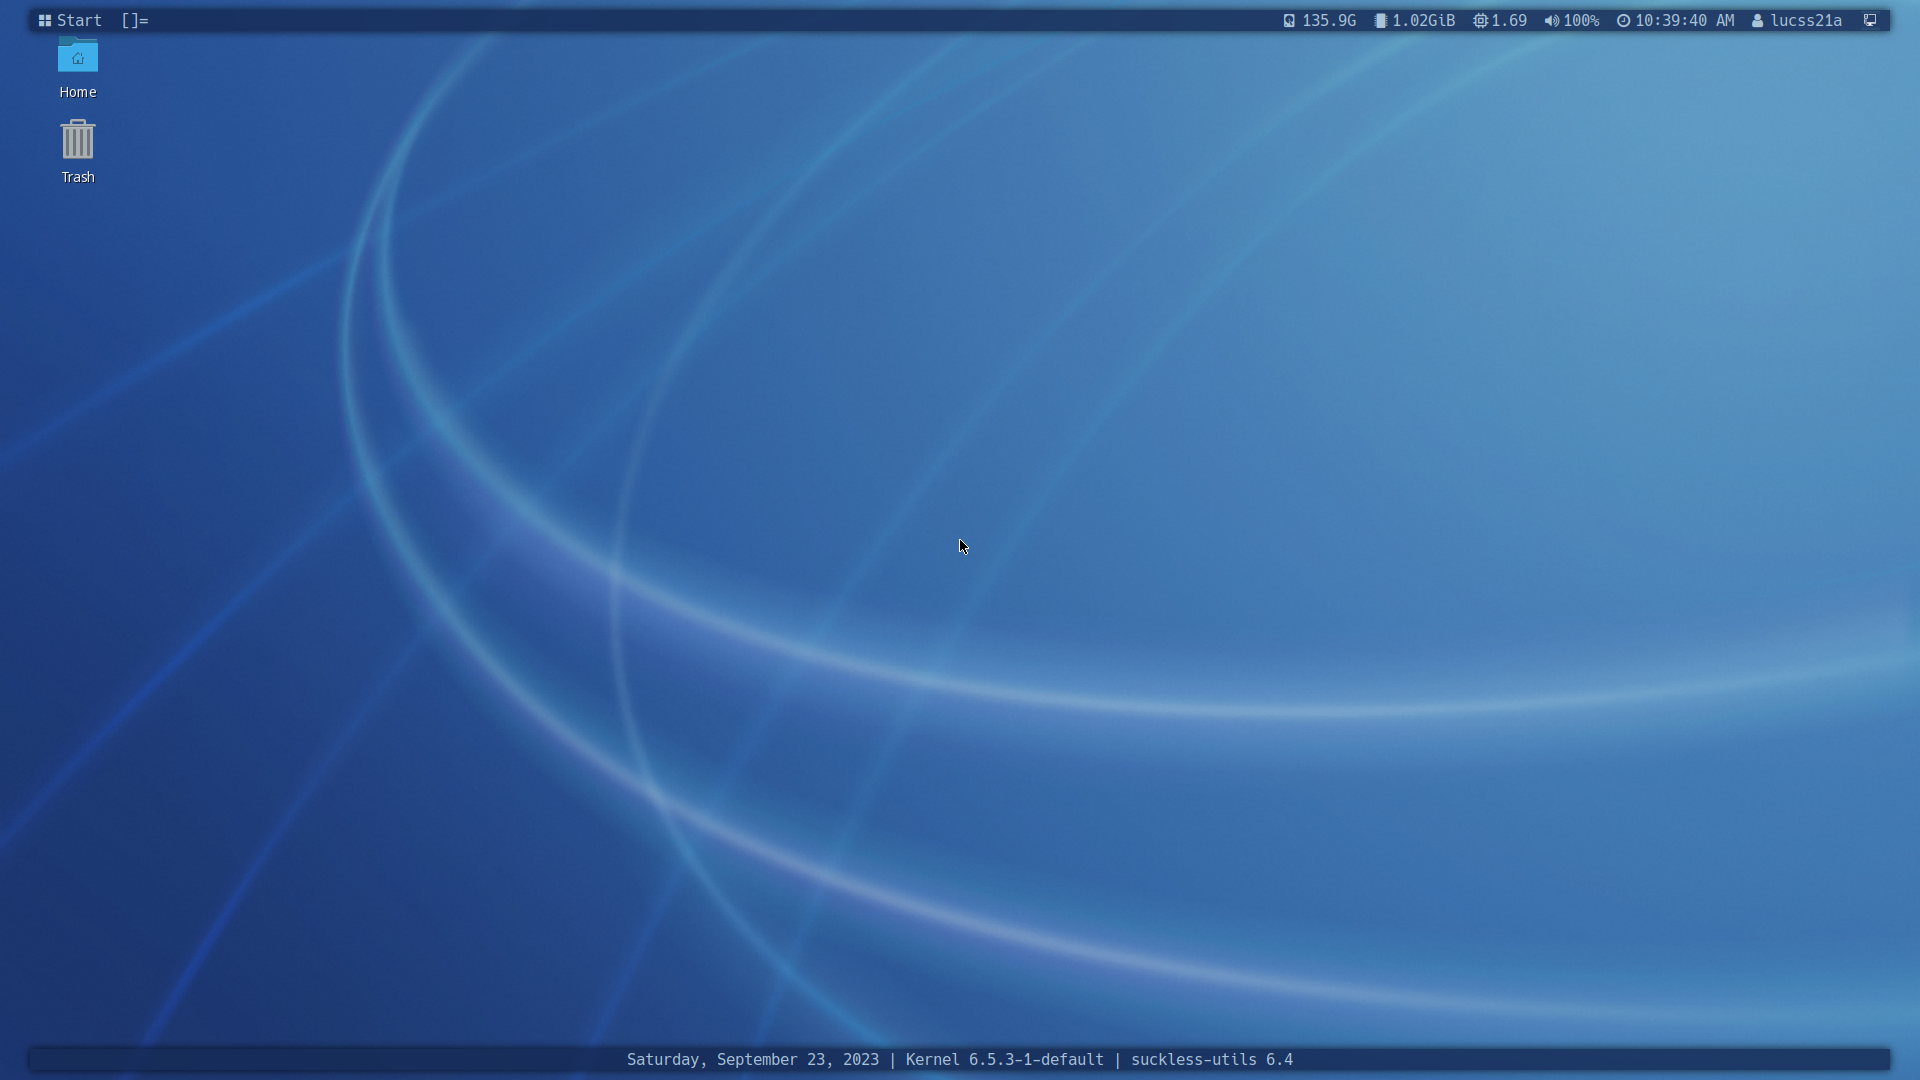
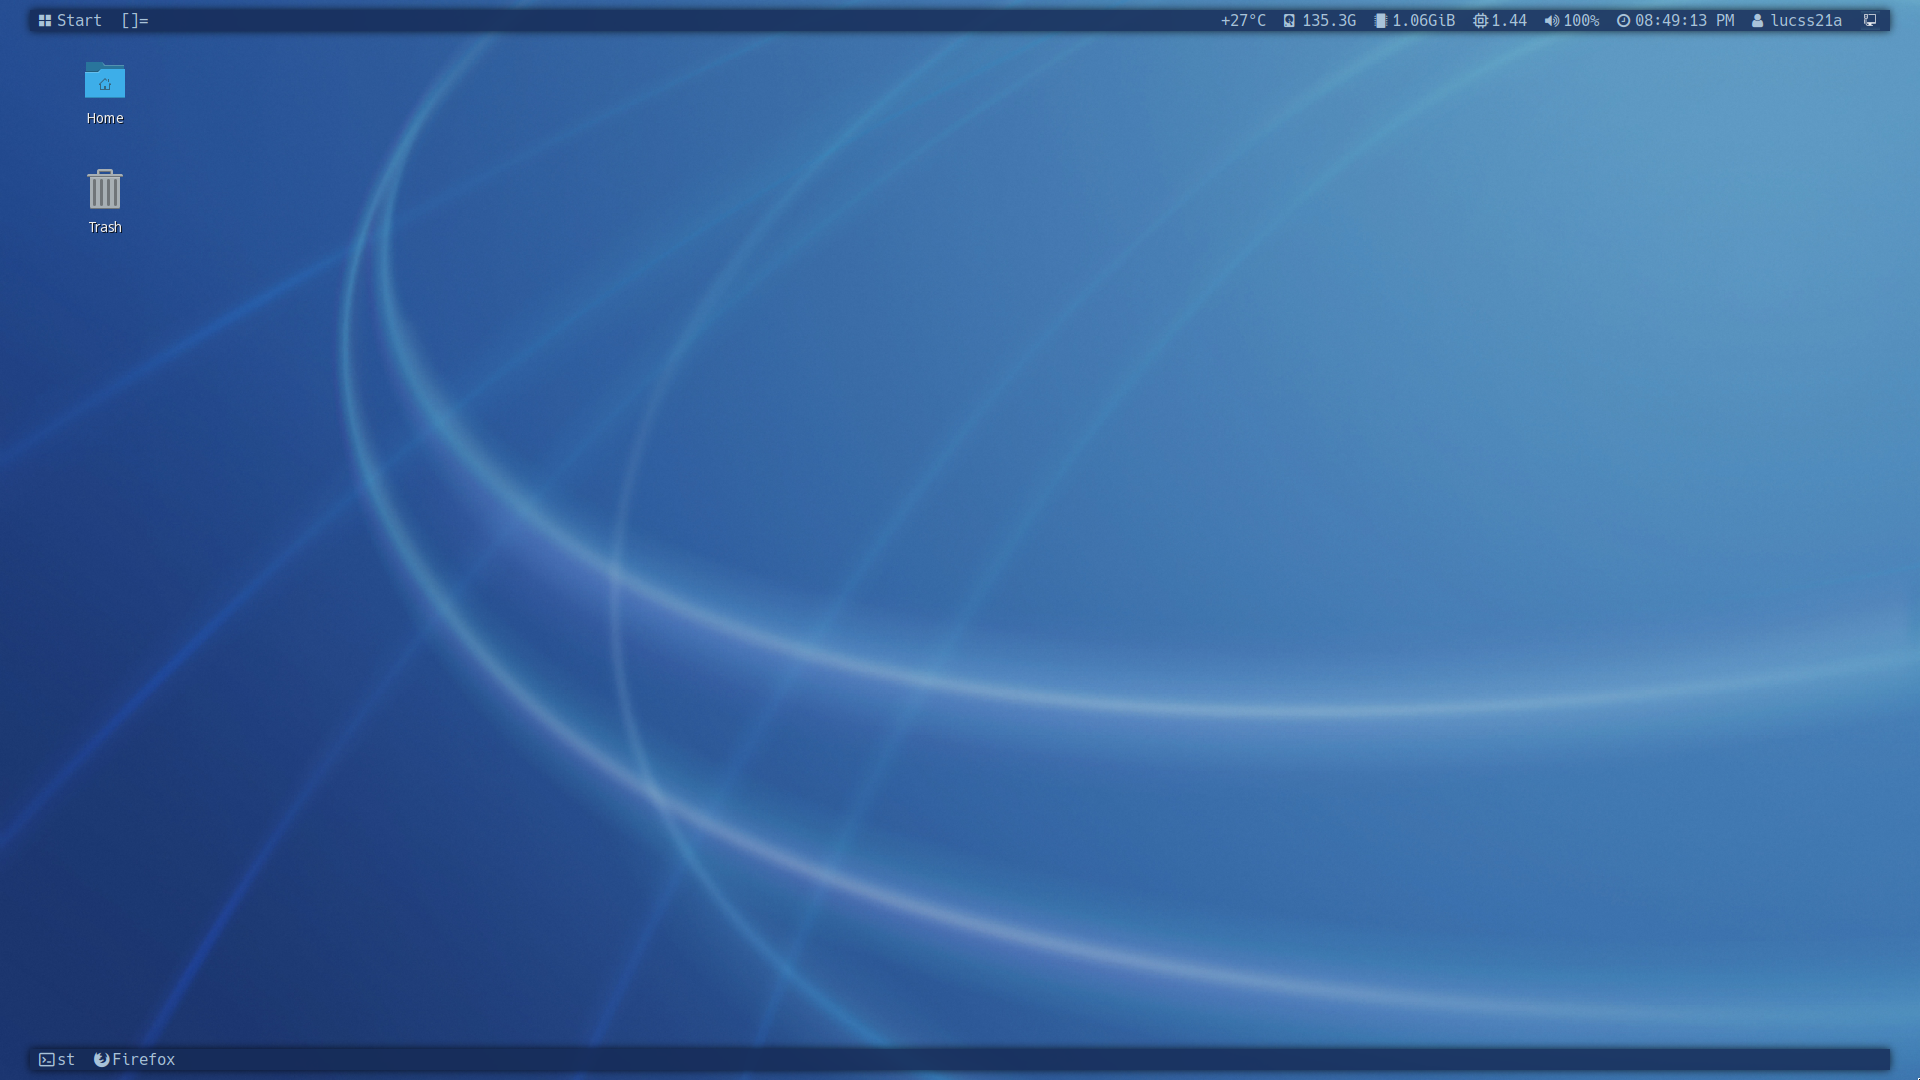
Improved bottom statusbar
- Removed the useless placeholder
- Added more status buttons
- (During debugging) replaced Polybar with tint2, couldn't make it work

diff --git a/dwm-flexipatch/config.def.h b/dwm-flexipatch/config.def.h
@@ -38,7 +38,7 @@ static const char localshare[]           = ".local/share";
 #endif // AUTOSTART_PATCH
 #if BAR_ANYBAR_PATCH
 static const int usealtbar               = 1;        /* 1 means use non-dwm status bar */
-static const char *altbarclass           = "Polybar"; /* Alternate bar class name */
+static const char *altbarclass           = "Tint2"; /* Alternate bar class name */
 static const char *altbarcmd             = "$HOME/bar.sh"; /* Alternate bar launch command */
 #endif // BAR_ANYBAR_PATCH
 #if BAR_HOLDBAR_PATCH
@@ -95,6 +95,8 @@ static const int vertpadbar              = 0;   /* vertical padding for statusba
 #endif // BAR_STATUSPADDING_PATCH
 #if BAR_STATUSBUTTON_PATCH
 static const char buttonbar[]            = " Start";
+static const char buttonbar2[]           = " st";
+static const char buttonbar3[]           = " Firefox";
 #endif // BAR_STATUSBUTTON_PATCH
 #if BAR_SYSTRAY_PATCH
 static const unsigned int systrayspacing = 2;   /* systray spacing */
@@ -549,6 +551,8 @@ static const BarRule barrules[] = {
 	/* monitor   bar    alignment         widthfunc                 drawfunc                clickfunc                hoverfunc                name */
 	#if BAR_STATUSBUTTON_PATCH
 	{ -1,        0,     BAR_ALIGN_LEFT,   width_stbutton,           draw_stbutton,          click_stbutton,          NULL,                    "statusbutton" },
+	{ -1,        1,     BAR_ALIGN_LEFT,   width_stbutton2,          draw_stbutton2,          click_stbutton2,          NULL,                    "statusbutton2" },
+	{ -1,        1,     BAR_ALIGN_LEFT,   width_stbutton3,          draw_stbutton3,          click_stbutton3,          NULL,                    "statusbutton3" },
 	#endif // BAR_STATUSBUTTON_PATCH
 	#if BAR_POWERLINE_TAGS_PATCH
 	{  0,        0,     BAR_ALIGN_LEFT,   width_pwrl_tags,          draw_pwrl_tags,         click_pwrl_tags,         NULL,                    "powerline_tags" },
@@ -579,19 +583,19 @@ static const BarRule barrules[] = {
 	#elif BAR_POWERLINE_STATUS_PATCH
 	{ statusmon, 0,     BAR_ALIGN_RIGHT,  width_pwrl_status,        draw_pwrl_status,       click_pwrl_status,       NULL,                    "powerline_status" },
 	#elif BAR_STATUS_PATCH && BAR_STATUSCMD_PATCH
-	{ statusmon, 0,     BAR_ALIGN_RIGHT,  width_status,             draw_status,            click_statuscmd,         NULL,                    "status" },
+	{ statusmon, 1,     BAR_ALIGN_RIGHT,  width_status,             draw_status,            click_statuscmd,         NULL,                    "status" },
 	#elif BAR_STATUS_PATCH
-	{ statusmon, 0,     BAR_ALIGN_RIGHT,  width_status,             draw_status,            click_status,            NULL,                    "status" },
+	{ statusmon, 1,     BAR_ALIGN_RIGHT,  width_status,             draw_status,            click_status,            NULL,                    "status" },
 	#endif // BAR_STATUS2D_PATCH | BAR_STATUSCMD_PATCH
 	#if XKB_PATCH
 	{  0,        0,     BAR_ALIGN_RIGHT,  width_xkb,                draw_xkb,               click_xkb,               NULL,                    "xkb" },
 	#endif // XKB_PATCH
 	#if BAR_FLEXWINTITLE_PATCH
-	{ -1,        0,     BAR_ALIGN_NONE,   width_flexwintitle,       draw_flexwintitle,      click_flexwintitle,      NULL,                    "flexwintitle" },
+	{ -1,        1,     BAR_ALIGN_NONE,   width_flexwintitle,       draw_flexwintitle,      click_flexwintitle,      NULL,                    "flexwintitle" },
 	#elif BAR_TABGROUPS_PATCH
 	{ -1,        0,     BAR_ALIGN_NONE,   width_bartabgroups,       draw_bartabgroups,      click_bartabgroups,      NULL,                    "bartabgroups" },
 	#elif BAR_AWESOMEBAR_PATCH
-	{ -1,        0,     BAR_ALIGN_NONE,   width_awesomebar,         draw_awesomebar,        click_awesomebar,        NULL,                    "awesomebar" },
+	{ -1,        1,     BAR_ALIGN_NONE,   width_awesomebar,         draw_awesomebar,        click_awesomebar,        NULL,                    "awesomebar" },
 	#elif BAR_FANCYBAR_PATCH
 	{ -1,        0,     BAR_ALIGN_NONE,   width_fancybar,           draw_fancybar,          click_fancybar,          NULL,                    "fancybar" },
 	#elif BAR_WINTITLE_PATCH
@@ -1362,6 +1366,8 @@ static const Button buttons[] = {
 	/* click                event mask           button          function        argument */
 	#if BAR_STATUSBUTTON_PATCH
 	{ ClkButton,            0,                   Button1,        spawn,          SHCMD("spmenu_run -d -a '-g 4 -l 10'") /* use spmenu instead of dmenu */ },
+	{ ClkButton2,            0,                  Button1,        spawn,          {.v = termcmd } },
+	{ ClkButton3,            0,                  Button1,        spawn,          SHCMD("firefox") },
 	#endif // BAR_STATUSBUTTON_PATCH
 	{ ClkLtSymbol,          0,                   Button1,        setlayout,      {0} },
 	#if BAR_LAYOUTMENU_PATCH

diff --git a/dwm-flexipatch/patch/xrdb.c b/dwm-flexipatch/patch/xrdb.c
@@ -59,39 +59,39 @@ loadxrdb()
 				XRDB_LOAD_COLOR("dwm.color13", scratchnormfloatcolor);
 				#endif // RENAMED_SCRATCHPADS_PATCH
 				#if BAR_FLEXWINTITLE_PATCH
-				XRDB_LOAD_COLOR("dwm.normTTBbgcolor", normTTBbgcolor);
-				XRDB_LOAD_COLOR("dwm.normLTRbgcolor", normLTRbgcolor);
-				XRDB_LOAD_COLOR("dwm.normMONObgcolor", normMONObgcolor);
-				XRDB_LOAD_COLOR("dwm.normGRIDbgcolor", normGRIDbgcolor);
-				XRDB_LOAD_COLOR("dwm.normGRD1bgcolor", normGRD1bgcolor);
-				XRDB_LOAD_COLOR("dwm.normGRD2bgcolor", normGRD2bgcolor);
-				XRDB_LOAD_COLOR("dwm.normGRDMbgcolor", normGRDMbgcolor);
-				XRDB_LOAD_COLOR("dwm.normHGRDbgcolor", normHGRDbgcolor);
-				XRDB_LOAD_COLOR("dwm.normDWDLbgcolor", normDWDLbgcolor);
-				XRDB_LOAD_COLOR("dwm.normSPRLbgcolor", normSPRLbgcolor);
-				XRDB_LOAD_COLOR("dwm.normfloatbgcolor", normfloatbgcolor);
-				XRDB_LOAD_COLOR("dwm.actTTBbgcolor", actTTBbgcolor);
-				XRDB_LOAD_COLOR("dwm.actLTRbgcolor", actLTRbgcolor);
-				XRDB_LOAD_COLOR("dwm.actMONObgcolor", actMONObgcolor);
-				XRDB_LOAD_COLOR("dwm.actGRIDbgcolor", actGRIDbgcolor);
-				XRDB_LOAD_COLOR("dwm.actGRD1bgcolor", actGRD1bgcolor);
-				XRDB_LOAD_COLOR("dwm.actGRD2bgcolor", actGRD2bgcolor);
-				XRDB_LOAD_COLOR("dwm.actGRDMbgcolor", actGRDMbgcolor);
-				XRDB_LOAD_COLOR("dwm.actHGRDbgcolor", actHGRDbgcolor);
-				XRDB_LOAD_COLOR("dwm.actDWDLbgcolor", actDWDLbgcolor);
-				XRDB_LOAD_COLOR("dwm.actSPRLbgcolor", actSPRLbgcolor);
-				XRDB_LOAD_COLOR("dwm.actfloatbgcolor", actfloatbgcolor);
-				XRDB_LOAD_COLOR("dwm.selTTBbgcolor", selTTBbgcolor);
-				XRDB_LOAD_COLOR("dwm.selLTRbgcolor", selLTRbgcolor);
-				XRDB_LOAD_COLOR("dwm.selMONObgcolor", selMONObgcolor);
-				XRDB_LOAD_COLOR("dwm.selGRIDbgcolor", selGRIDbgcolor);
-				XRDB_LOAD_COLOR("dwm.selGRD1bgcolor", selGRD1bgcolor);
-				XRDB_LOAD_COLOR("dwm.selGRD2bgcolor", selGRD2bgcolor);
-				XRDB_LOAD_COLOR("dwm.selGRDMbgcolor", selGRDMbgcolor);
-				XRDB_LOAD_COLOR("dwm.selHGRDbgcolor", selHGRDbgcolor);
-				XRDB_LOAD_COLOR("dwm.selDWDLbgcolor", selDWDLbgcolor);
-				XRDB_LOAD_COLOR("dwm.selSPRLbgcolor", selSPRLbgcolor);
-				XRDB_LOAD_COLOR("dwm.selfloatbgcolor", selfloatbgcolor);
+				XRDB_LOAD_COLOR("dwm.color0", normTTBbgcolor);
+				XRDB_LOAD_COLOR("dwm.color0", normLTRbgcolor);
+				XRDB_LOAD_COLOR("dwm.color0", normMONObgcolor);
+				XRDB_LOAD_COLOR("dwm.color0", normGRIDbgcolor);
+				XRDB_LOAD_COLOR("dwm.color0", normGRD1bgcolor);
+				XRDB_LOAD_COLOR("dwm.color0", normGRD2bgcolor);
+				XRDB_LOAD_COLOR("dwm.color0", normGRDMbgcolor);
+				XRDB_LOAD_COLOR("dwm.color0", normHGRDbgcolor);
+				XRDB_LOAD_COLOR("dwm.color0", normDWDLbgcolor);
+				XRDB_LOAD_COLOR("dwm.color0", normSPRLbgcolor);
+				XRDB_LOAD_COLOR("dwm.color0", normfloatbgcolor);
+				XRDB_LOAD_COLOR("dwm.color1", actTTBbgcolor);
+				XRDB_LOAD_COLOR("dwm.color1", actLTRbgcolor);
+				XRDB_LOAD_COLOR("dwm.color1", actMONObgcolor);
+				XRDB_LOAD_COLOR("dwm.color1", actGRIDbgcolor);
+				XRDB_LOAD_COLOR("dwm.color1", actGRD1bgcolor);
+				XRDB_LOAD_COLOR("dwm.color1", actGRD2bgcolor);
+				XRDB_LOAD_COLOR("dwm.color1", actGRDMbgcolor);
+				XRDB_LOAD_COLOR("dwm.color1", actHGRDbgcolor);
+				XRDB_LOAD_COLOR("dwm.color1", actDWDLbgcolor);
+				XRDB_LOAD_COLOR("dwm.color1", actSPRLbgcolor);
+				XRDB_LOAD_COLOR("dwm.color1", actfloatbgcolor);
+				XRDB_LOAD_COLOR("dwm.color2", selTTBbgcolor);
+				XRDB_LOAD_COLOR("dwm.color2", selLTRbgcolor);
+				XRDB_LOAD_COLOR("dwm.color2", selMONObgcolor);
+				XRDB_LOAD_COLOR("dwm.color2", selGRIDbgcolor);
+				XRDB_LOAD_COLOR("dwm.color2", selGRD1bgcolor);
+				XRDB_LOAD_COLOR("dwm.color2", selGRD2bgcolor);
+				XRDB_LOAD_COLOR("dwm.color2", selGRDMbgcolor);
+				XRDB_LOAD_COLOR("dwm.color2", selHGRDbgcolor);
+				XRDB_LOAD_COLOR("dwm.color2", selDWDLbgcolor);
+				XRDB_LOAD_COLOR("dwm.color2", selSPRLbgcolor);
+				XRDB_LOAD_COLOR("dwm.color2", selfloatbgcolor);
 				#endif // BAR_FLEXWINTITLE_PATCH
 				#if BAR_STATUS2D_XRDB_TERMCOLORS_PATCH && BAR_STATUS2D_PATCH
 				XRDB_LOAD_COLOR("color0", termcol0);

diff --git a/dwm-flexipatch/patches.def.h b/dwm-flexipatch/patches.def.h
@@ -65,7 +65,7 @@
  * taps into the many layout options that flextile-deluxe offers to produce a window
  * title section in the bar that is representative of what is shown on screen.
  */
-#define BAR_FLEXWINTITLE_PATCH 0
+#define BAR_FLEXWINTITLE_PATCH 0 
 
 /* This patch adds a context menu for layout switching.
  *   - xmenu needs to be installed.
@@ -272,13 +272,13 @@
  *
  * https://dwm.suckless.org/patches/anybar/
  */
-#define BAR_ANYBAR_PATCH 0
+#define BAR_ANYBAR_PATCH 1
 
 /* Anybar option to place the next bar depending on previous bar's position (top or bottom) */
-#define BAR_ANYBAR_TOP_AND_BOTTOM_BARS_PATCH 0
+#define BAR_ANYBAR_TOP_AND_BOTTOM_BARS_PATCH 1
 
 /* Anybar option to let dwm manage the width of the bar */
-#define BAR_ANYBAR_MANAGE_WIDTH_PATCH 0
+#define BAR_ANYBAR_MANAGE_WIDTH_PATCH 1
 
 /* This patch adds a border around the status bar(s) just like the border of client windows.
  * https://codemadness.org/paste/dwm-border-bar.patch
@@ -290,7 +290,7 @@
  * modules.
  * https://dwm.suckless.org/patches/centeredwindowname/
  */
-#define BAR_CENTEREDWINDOWNAME_PATCH 0
+#define BAR_CENTEREDWINDOWNAME_PATCH 0 
 
 /* Draws a dot indicator overlayed on each tag icon for each client. The selected client
  * is drawn as a larger horizontal line.
@@ -400,7 +400,7 @@
 /* This patch draws and updates the statusbar on all monitors.
  * https://dwm.suckless.org/patches/statusallmons/
  */
-#define BAR_STATUSALLMONS_PATCH 0
+#define BAR_STATUSALLMONS_PATCH 1
 
 /* This patch enables colored text in the status bar. It changes the way colors are defined
  * in config.h allowing multiple color combinations for use in the status script.

diff --git a/dwm-flexipatch/patch/bar_statusbutton.c b/dwm-flexipatch/patch/bar_statusbutton.c
@@ -15,4 +15,38 @@ click_stbutton(Bar *bar, Arg *arg, BarArg *a)
 {
 	return ClkButton;
 }
+/* modification by Lucas-mother3 to add more buttons */
+int
+width_stbutton2(Bar *bar, BarArg *a)
+{
+	return TEXTW(buttonbar2);
+}
 
+int
+draw_stbutton2(Bar *bar, BarArg *a)
+{
+	return drw_text(drw, a->x, a->y, a->w, a->h, lrpad / 2, buttonbar2, 0, False);
+}
+
+int
+click_stbutton2(Bar *bar, Arg *arg, BarArg *a)
+{
+	return ClkButton2;
+}
+int
+width_stbutton3(Bar *bar, BarArg *a)
+{
+	return TEXTW(buttonbar3);
+}
+
+int
+draw_stbutton3(Bar *bar, BarArg *a)
+{
+	return drw_text(drw, a->x, a->y, a->w, a->h, lrpad / 2, buttonbar3, 0, False);
+}
+
+int
+click_stbutton3(Bar *bar, Arg *arg, BarArg *a)
+{
+	return ClkButton3;
+}

diff --git a/dwm-flexipatch/patch/bar_statusbutton.h b/dwm-flexipatch/patch/bar_statusbutton.h
@@ -1,4 +1,9 @@
 static int width_stbutton(Bar *bar, BarArg *a);
 static int draw_stbutton(Bar *bar, BarArg *a);
 static int click_stbutton(Bar *bar, Arg *arg, BarArg *a);
-
+static int width_stbutton2(Bar *bar, BarArg *a);
+static int draw_stbutton2(Bar *bar, BarArg *a);
+static int click_stbutton2(Bar *bar, Arg *arg, BarArg *a);
+static int width_stbutton3(Bar *bar, BarArg *a);
+static int draw_stbutton3(Bar *bar, BarArg *a);
+static int click_stbutton3(Bar *bar, Arg *arg, BarArg *a);

diff --git a/dwm-flexipatch/dwm.c b/dwm-flexipatch/dwm.c
@@ -232,6 +232,8 @@ enum {
 enum {
 	#if BAR_STATUSBUTTON_PATCH
 	ClkButton,
+	ClkButton2,
+	ClkButton3,
 	#endif // BAR_STATUSBUTTON_PATCH
 	#if TAB_PATCH
 	ClkTabBar,
